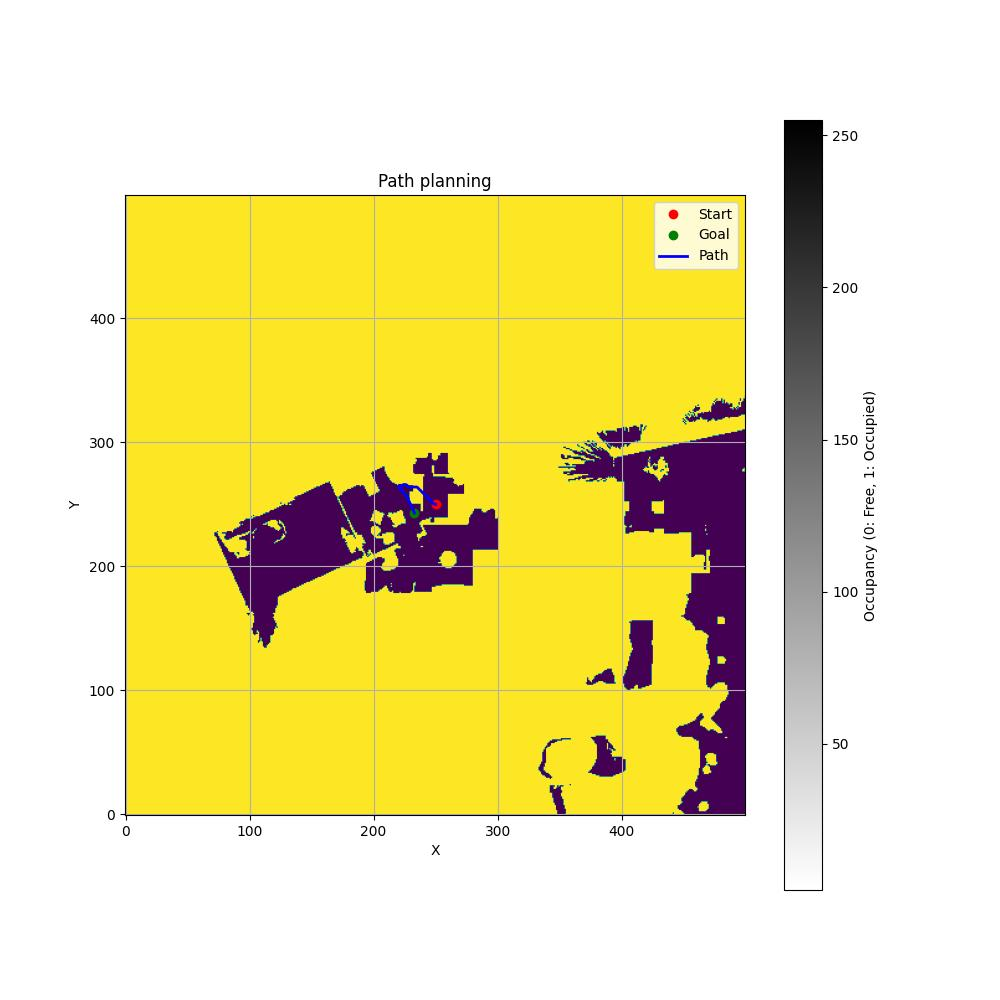
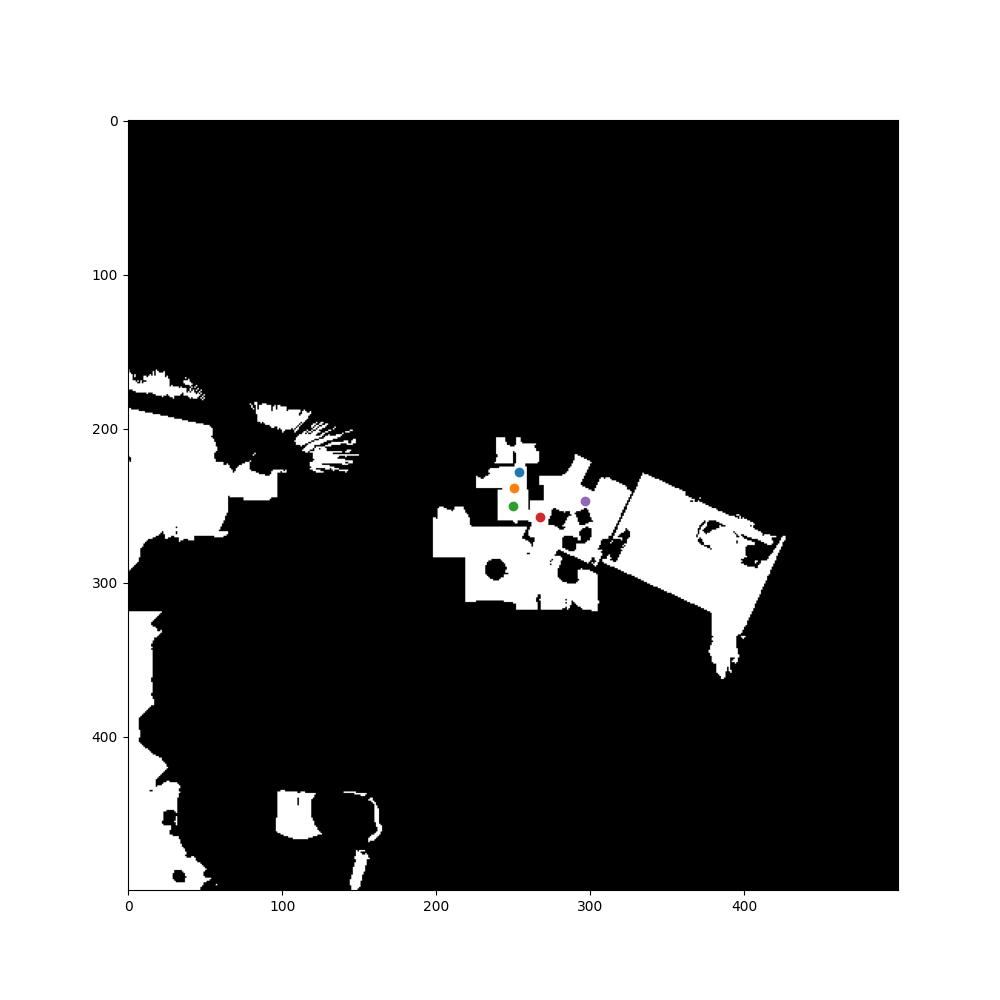
debug global path planning done

diff --git a/vln/src/local_nav/global_topdown_map.py b/vln/src/local_nav/global_topdown_map.py
@@ -162,46 +162,104 @@ class GlobalTopdownMap:
         
     #     return pixel_x, pixel_y, world_coords[2]
 
-    def pixel_to_world(self, pixel, camera_pose):
-        cx, cy = camera_pose[0], camera_pose[1]
-        x,y = pixel[0], pixel[1]
+    # def pixel_to_world(self, pixel, camera_pose):
+    #     cx, cy = camera_pose[0], camera_pose[1]
+    #     # x,y = pixel[0], pixel[1]
+    #     x, y = self.width-pixel[0], self.height-pixel[1]
         
-        # Convert pixel to NDC (Normalized Device Coordinates)
-        ndc_x = (x / self.width) * 2 - 1
-        ndc_y = (y / self.height) * 2 - 1
+    #     # Convert pixel to NDC (Normalized Device Coordinates)
+    #     ndc_x = (x / self.width) * 2 - 1
+    #     ndc_y = (y / self.height) * 2 - 1
         
-        # Convert NDC to world coordinates
-        world_x = cx + (ndc_x * self.camera_aperture / 2)/10
-        world_y = cy + (ndc_y * self.camera_aperture / 2)/10
+    #     # Convert NDC to world coordinates
+    #     world_x = cx + (ndc_x * self.camera_aperture / 2)/10
+    #     world_y = cy + (ndc_y * self.camera_aperture / 2)/10
+
+    #     # convert_world_x = self.width - world_x
+    #     # convert_world_y = self.height - world_y
         
-        return [world_x, world_y]
+    #     return [world_x, world_y]
+
+    # def world_to_pixel_2(self, world_pose, specific_height=None, is_camera_base=False):
+    #     height = self.get_height(world_pose, is_camera_base=is_camera_base)
+
+    #     if height not in self.floor_maps.keys() and specific_height is None:
+    #         log.error("Floor height not found in global topdown map")
+    #         return None
+    #     elif specific_height is not None:
+    #         height = specific_height
+        
+    #     camera_pose = self.floor_maps[height]['camera_pose']
+
+    #     cx, cy = camera_pose[0], camera_pose[1]
+    #     X, Y = world_pose[0], world_pose[1] # !!!
+    #     # Translate world coordinates to camera-centered coordinates
+    #     trans_x = (X - cx)*10
+    #     trans_y = (Y - cy)*10
+        
+    #     # Convert world coordinates to NDC
+    #     ndc_x = (trans_x / (self.camera_aperture / 2))
+    #     ndc_y = (trans_y / (self.camera_aperture / 2))
+        
+    #     # Convert NDC to pixel coordinates
+    #     pixel_x = (ndc_x + 1) * self.width / 2
+    #     pixel_y = (ndc_y + 1) * self.height / 2
+
+    #     convert_pixel_x = self.width - pixel_x
+    #     convert_pixel_y = self.height - pixel_y
+
+    #     return [convert_pixel_x, convert_pixel_y]
+    
+    # def world_to_pixel_yesterday(self, world_pose, specific_height=None, is_camera_base=False):
+    #     height = self.get_height(world_pose, is_camera_base=is_camera_base)
+
+    #     if height not in self.floor_maps.keys() and specific_height is None:
+    #         log.error("Floor height not found in global topdown map")
+    #         return None
+    #     elif specific_height is not None:
+    #         height = specific_height
+        
+    #     camera_pose = self.floor_maps[height]['camera_pose']
+
+    #     cx, cy = camera_pose[0]*10, camera_pose[1]*10
+    #     X, Y = world_pose[0]*10, world_pose[1]*10 # !!!
+
+    #     negative_X, negative_Y = -X, -Y
+    #     pixel_x = negative_X + cx + self.width/2
+    #     pixel_y = self.height - (negative_Y + cy + self.height/2)
+
+    #     return [pixel_x, pixel_y]
 
     def world_to_pixel(self, world_pose, specific_height=None, is_camera_base=False):
-        height = self.get_height(world_pose, is_camera_base=is_camera_base)
+        if specific_height is None:
+            height = self.get_height(world_pose, is_camera_base=is_camera_base)
 
-        if height not in self.floor_maps.keys() and specific_height is None:
-            log.error("Floor height not found in global topdown map")
-            return None
-        elif specific_height is not None:
+            if height not in self.floor_maps.keys() and specific_height is None:
+                log.error("Floor height not found in global topdown map")
+                return None
+        else:
             height = specific_height
         
         camera_pose = self.floor_maps[height]['camera_pose']
 
-        cx, cy = camera_pose[0], camera_pose[1]
-        X, Y = self.width-world_pose[0], self.height-world_pose[1] # !!!
-        # Translate world coordinates to camera-centered coordinates
-        trans_x = (X - cx)*10
-        trans_y = (Y - cy)*10
-        
-        # Convert world coordinates to NDC
-        ndc_x = (trans_x / (self.camera_aperture / 2))
-        ndc_y = (trans_y / (self.camera_aperture / 2))
-        
-        # Convert NDC to pixel coordinates
-        pixel_x = (ndc_x + 1) * self.width / 2
-        pixel_y = (ndc_y + 1) * self.height / 2
+        cx, cy = camera_pose[1]*10/self.camera_aperture*self.width, -camera_pose[0]*10/self.camera_aperture*self.height
+        X, Y = world_pose[1]*10/self.camera_aperture*self.width, -world_pose[0]*10/self.camera_aperture*self.height
+
+        pixel_x = X - cx + self.width/2
+        pixel_y = Y - cy + self.height/2
 
         return [pixel_x, pixel_y]
+
+    def pixel_to_world(self, pixel, camera_pose):
+        cx, cy = camera_pose[1]*10/self.camera_aperture*self.width, -camera_pose[0]*10/self.camera_aperture*self.height
+
+        px = pixel[0] + cx - self.height/2
+        py = pixel[1] + cy - self.width/2
+
+        world_x = -py/10/self.height*self.camera_aperture
+        world_y = px/10/self.width*self.camera_aperture
+        
+        return [world_x, world_y]
     
     
     def clear_map(self):
@@ -241,17 +299,8 @@ class GlobalTopdownMap:
         sampled_points = [start + i*delta for i in range(step+1)]
 
         return sampled_points
-    
-    def rotate_180(self, matrix):
-        # Step 1: Reverse the order of rows
-        # matrix.reverse()
-        # # Step 2: Reverse each row
-        # for row in matrix:
-        #     row.reverse()
-        matrix = np.flipud(np.fliplr(matrix))
-        return matrix
 
-    def navigate_p2p(self, start, goal, step_time=0, verbose=False):
+    def navigate_p2p(self, start, goal, step_time=0, verbose=False, all_paths=[]):
         # start_height = int(start[2])
         # goal_height = int(goal[2])
 
@@ -266,30 +315,35 @@ class GlobalTopdownMap:
         
         else:
             occupancy_map, camera_pose = self.get_map(start, return_camera_pose=True)
-            occupancy_map_180 = self.rotate_180(occupancy_map)
             
             start_pixel = self.world_to_pixel(start)
             goal_pixel = self.world_to_pixel(goal)
+
+            # test
+            if len(all_paths) > 0:
+                plt.clf()
+                plt.imshow(occupancy_map, cmap='binary', origin='upper')
+                for path in all_paths:
+                    path_pixel = self.world_to_pixel(path)
+                    plt.scatter(path_pixel[1], path_pixel[0])
+                plt.savefig('test.jpg')
+                plt.clf()
 
             # self.path_planner.update_obs_map(occupancy_map)
 
             paths, find_flag = self.path_planner.planning(start_pixel[0], start_pixel[1],
                                             goal_pixel[0], goal_pixel[1],
-                                            obs_map=occupancy_map_180,
+                                            obs_map=occupancy_map,
                                             min_final_meter=self.planner_config.last_scope,
                                             img_save_path=os.path.join(self.args.log_image_dir, "global_path_"+str(step_time)+".jpg"),
                                             vis_path=False)
             if verbose:
-                path_convert_y = []
-                for path in paths:
-                    path_convert_y.append([path[0], self.height - path[1]])
-                    goal_pixel_convert_y = [goal_pixel[0], self.height - goal_pixel[1]]
-                self.vis_nav_path(start_pixel, goal_pixel_convert_y, path_convert_y, occupancy_map_180, img_save_path=os.path.join(self.args.log_image_dir, "global_path_"+str(step_time)+".jpg"))
+                if len(paths) > 0:
+                    self.vis_nav_path(start_pixel, goal_pixel, paths, occupancy_map, img_save_path=os.path.join(self.args.log_image_dir, "global_path_"+str(step_time)+".jpg"))
 
             if find_flag:
                 transfer_paths = []
                 for node in paths:
-                    # world_coords = self.pixel_to_world([node[1], node[0]], start[2])
                     world_coords = self.pixel_to_world([node[0],node[1]], camera_pose)
                     transfer_paths.append([world_coords[0], world_coords[1], start[2]])
             else:
@@ -300,15 +354,15 @@ class GlobalTopdownMap:
     def vis_nav_path(self, start_pixel, goal_pixel, points, occupancy_map, img_save_path='path_planning.jpg'):
         plt.figure(figsize=(10, 10))
         # plt.imshow(occupancy_map, cmap='binary', origin='lower')
-        plt.imshow(occupancy_map, cmap='binary')
+        plt.imshow(occupancy_map, cmap='binary', origin='upper')
 
         # Plot start and goal points
-        plt.plot(start_pixel[0], start_pixel[1], 'ro', markersize=6, label='Start')
-        plt.plot(goal_pixel[0], goal_pixel[1], 'go', markersize=6, label='Goal')
+        plt.plot(start_pixel[1], start_pixel[0], 'ro', markersize=6, label='Start')
+        plt.plot(goal_pixel[1], goal_pixel[0], 'go', markersize=6, label='Goal')
 
         # Plot the path
         path = np.array(points)
-        plt.plot(path[:, 0], path[:, 1], 'b-', linewidth=2, label='Path')
+        plt.plot(path[:, 1], path[:, 0], 'b-', linewidth=2, label='Path')
 
         # Customize the plot
         plt.title('Path planning')

diff --git a/vln/main.py b/vln/main.py
@@ -12,6 +12,7 @@ import yaml
 import time
 from collections import defaultdict
 from PIL import Image
+from copy import deepcopy
 
 # enable multiple gpus
 # import isaacsim
@@ -392,6 +393,7 @@ def sample_episodes(args, vln_envs_all, data_camera_list):
                 '''start simulation'''
                 i = 0
                 warm_step = 240 if args.headless else 500
+                move_step = warm_step
                 # Note that warm_step should be the times of the oracle sample interval (now is set to 20)
 
                 action_info = {
@@ -452,7 +454,7 @@ def sample_episodes(args, vln_envs_all, data_camera_list):
                             freemap, camera_pose = vln_envs.get_global_free_map(verbose=args.test_verbose)
                             topdown_map.update_map(freemap, camera_pose, update_map=True, verbose=args.test_verbose)
                             robot_current_position = vln_envs.get_agent_pose()[0]
-                            exe_path = topdown_map.navigate_p2p(robot_current_position, paths[current_point+1], step_time=i, verbose=args.test_verbose) # TODO: check world to map coordinate
+                            exe_path = topdown_map.navigate_p2p(robot_current_position, paths[current_point+1], step_time=i, verbose=args.test_verbose, all_paths=paths) # TODO: check world to map coordinate
 
                             action_info.update({'current_step': i})
                             actions = {'h1': {action_name: [exe_path, action_info]}}
@@ -467,15 +469,16 @@ def sample_episodes(args, vln_envs_all, data_camera_list):
                     actions['h1'][action_name][1]['current_step'] = i
 
                     env_actions.append(actions)
-                    obs = env.step(actions=env_actions)
+                    obs = env.step(actions=env_actions, data_type=args.settings.camera_data_type)
 
                     exe_point = obs[vln_envs.task_name][vln_envs.robot_name][action_name].get('exe_point', None)
                     if exe_point is not None:
                         total_points.append(exe_point)
                         is_image_stacked = False
+                        move_step = deepcopy(i)
 
                     # stack images
-                    if i % (args.sample_episodes.step_interval+7) == 0:
+                    if (i-move_step) != 0 and (i-move_step) % 7 == 0:
                         # Since oracle_move_path_controller moves to the next point every 20 steps, the image is fetched every 20+5 steps
                         for camera in data_camera_list:
                             total_images[camera].append(
@@ -484,7 +487,7 @@ def sample_episodes(args, vln_envs_all, data_camera_list):
                                 ])
                         is_image_stacked = True
 
-                    if args.test_verbose and args.save_obs and i % (args.sample_episodes.step_interval+7) == 0:
+                    if args.test_verbose and args.save_obs and (i-move_step) != 0 and (i-move_step)%7 == 0:
                         vln_envs.save_observations(camera_list=data_camera_list, data_types=["rgba", "depth"], step_time=i)
                         freemap, camera_pose = vln_envs.get_global_free_map(verbose=args.test_verbose)
                         topdown_map.update_map(freemap, camera_pose, update_map=True, verbose=args.test_verbose)

diff --git a/grutopia/core/runner.py b/grutopia/core/runner.py
@@ -66,7 +66,7 @@ class SimulatorRunner:
         # task.load()
         self._warm_up()
 
-    def step(self, actions: dict, render: bool = True):
+    def step(self, actions: dict, render: bool = True, data_type=None):
         for task_name, action_dict in actions.items():
             task = self.current_tasks.get(task_name)
             for name, action in action_dict.items():
@@ -78,7 +78,7 @@ class SimulatorRunner:
             self.render_trigger = 0
         self._world.step(render=render)
 
-        obs = self.get_obs()
+        obs = self.get_obs(data_type=data_type)
         for npc in self.npc:
             try:
                 npc.feed(obs)

diff --git a/grutopia/core/env.py b/grutopia/core/env.py
@@ -61,7 +61,7 @@ class BaseEnv:
     def get_dt(self):
         return self._runner.dt
 
-    def step(self, actions: List[Dict[str, Any]]) -> List[Dict[str, Any]]:
+    def step(self, actions: List[Dict[str, Any]], data_type=None) -> List[Dict[str, Any]]:
         """
         run step with given action(with isaac step)
 
@@ -85,7 +85,7 @@ class BaseEnv:
         }
 
         # log.debug(action_after_reshape)
-        self._runner.step(action_after_reshape)
+        self._runner.step(action_after_reshape, data_type=data_type)
         observations = self.get_observations()
         return observations
     

diff --git a/vln/src/local_nav/path_planner.py b/vln/src/local_nav/path_planner.py
@@ -736,7 +736,7 @@ class AStarPlanner:
 
         if len(points_list) > 1:
             points = self.simplify_path(points_list)
-            # points.append((gx, gy))
+            points.append((gx, gy))
         else:
             log.warning(f"Path planning results only contain {len(points_list)} points.")
             points = []

diff --git a/grutopia_extension/sensors/camera.py b/grutopia_extension/sensors/camera.py
@@ -94,6 +94,7 @@ class Camera(BaseSensor):
     
     def get_camera_data(self, data_type: list) -> Dict:
         output_data = {}
+        rep.orchestrator.step(rt_subframes=2) # !!!
         if "bbox" in data_type:
             output_data["bbox"] = self.bbox_receiver.get_data()
         if "rgba" in data_type:
